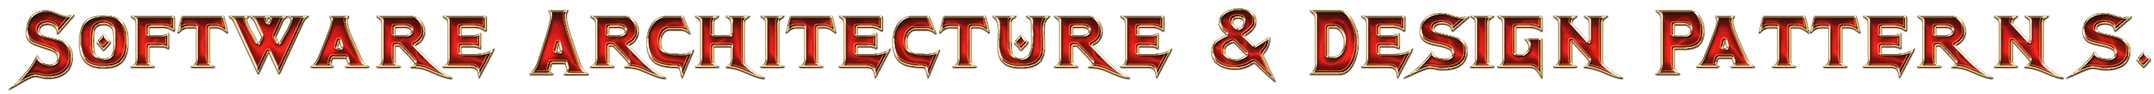
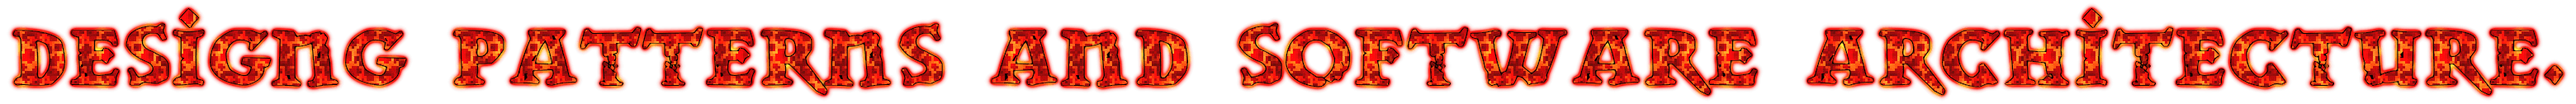
proceeded

diff --git a/Microservices Architecture - The Complete Guide Caption/Section 02/README.md b/Microservices Architecture - The Complete Guide Caption/Section 02/README.md
@@ -1,4 +1,81 @@
-# Section 1:
+# Section 02: History of the microservices?
 
 # What I Learned.
 
+# Introduction.
+
+<div align="center">
+    <img alt="Microservices Architecture - The Complete Guide Course" src="History_Of_Microservices_Intoduction.PNG" width="700"/>
+</div>
+
+1. History of Microservices! We will be going, why before this did not work!
+
+<div align="center">
+    <img alt="Microservices Architecture - The Complete Guide Course" src="Microservices_Before_Two_Paradigm.PNG" width="700"/>
+</div>
+
+1. Microservices are result of:
+    - Monolith.
+    - SOA.
+
+# Monolith.
+
+<div align="center">
+    <img alt="Microservices Architecture - The Complete Guide Course" src="Monolith_Architecture.PNG" width="700"/>
+</div>
+
+1. Monolith is the father of all architecture. 
+2. Monoliths are not sharing, anything with other apps. Meaning, if one want build ecosystem, that's not going to work with **monoliths**!
+
+<div align="center">
+    <img alt="Microservices Architecture - The Complete Guide Course" src="Monolith_Architecture_Example.PNG" width="700"/>
+</div>
+
+1. Process has **all** the components!
+2. Database in other precess usually!
+3. Front end in other precess usually!
+
+- We still say this is **monolith**, since the **core** of the app is running inside one process!
+
+<div align="center">
+    <img alt="Microservices Architecture - The Complete Guide Course" src="Monolith_Architecture_Example_Second.PNG" width="700"/>
+</div>
+
+1. If we have **two** monolith **apps**.
+2. Data sharing between **two monolith apps**!
+    - These are often silos and does not share done!
+        - It can be done, but it's not easy!
+
+<div align="center">
+    <img alt="Microservices Architecture - The Complete Guide Course" src="Monolith_Architecture_Example_Second.PNG" width="700"/>
+</div>
+
+1. It's much simpler to design!
+2. Performance, if designed correctly! 
+    - **ESB** routes the communication to right **service**!
+
+<div align="center">
+    <img alt="Microservices Architecture - The Complete Guide Course" src="SOA_Architecture.PNG" width="600"/>
+</div>
+
+1. The **SOA** is sharing services to outside!
+2. One of feature, why **SOA** was failing was usage of **SOAP**!
+
+<div align="center">
+    <img alt="Microservices Architecture - The Complete Guide Course" src="SOA_Architecture_Example.PNG" width="600"/>
+</div>
+
+1. Apps exposes **SOAP** endpoints to provide the **services** to outside!
+2. **Client** talks directly to the **ESB** (**E**nterprise **S**ervice **B**uss).
+
+<div align="center">
+    <img alt="Microservices Architecture - The Complete Guide Course" src="SOA_Pros.PNG" width="600"/>
+</div>
+
+1. Allowed **data sharing** between system, first time easy!
+    -  Made here the why
+2. 
+
+- Todo this one
+
+# Service Oriented Architecture.

diff --git a/Microservices Architecture - The Complete Guide Caption/Section 01/README.md b/Microservices Architecture - The Complete Guide Caption/Section 01/README.md
@@ -1,4 +1,72 @@
-# Section 1:
+# Section 01: Welcome.
+
+Welcome.
 
 # What I Learned.
 
+# Course Introduction.
+
+<div align="center">
+    <img alt="Microservices Architecture - The Complete Guide Course" src="Introduction_To_The_Microservices.PNG" width="700"/>
+</div>
+
+1. Best course made by **Memi Lavi**!
+
+<div align="center">
+    <img alt="Microservices Architecture - The Complete Guide Course" src="Why_Microservices.PNG" width="700"/>
+</div>
+
+1. This is the most popular **Architecture Paradigm**!
+2. These patterns are not tied to any specific technology!
+3. It solves very **common problems** in dev teams!
+4. Lot of fuzz! 
+
+<div align="center">
+    <img alt="Microservices Architecture - The Complete Guide Course" src="Neflix_Was_One_Of_First.PNG" width="700"/>
+</div>
+
+1. **Netflix** was one of the first companies, which who publically announce the to adopt the **microservice**!
+
+<div align="center">
+    <img alt="Microservices Architecture - The Complete Guide Course" src="But_Its_Not_A_Silverbullet.PNG" width="700"/>
+</div>
+
+1. Microservice architecture **is not** the **silver bullet**! Read following quote.
+
+<div align="center">
+    <img alt="Microservices Architecture - The Complete Guide Course" src="Microservices_Architecture_Pre_Requisites.PNG" width="700"/>
+</div>
+
+1. If moving to the **Microservices Architecture** is wise and how!
+
+<div align="center">
+    <img alt="Microservices Architecture - The Complete Guide Course" src="Microservices_Architecture_If_Not_Controlled.PNG" width="700"/>
+</div>
+
+1. One should be providing real value to the customer!
+
+<div align="center">
+    <img alt="Microservices Architecture - The Complete Guide Course" src="By_End_Of_The_Course.PNG" width="700"/>
+</div>
+
+- This guy is super smart! 
+
+# Join The Software Architects Community.
+
+# Who Is This Course For?
+
+<div align="center">
+    <img alt="Microservices Architecture - The Complete Guide Course" src="This_Course_Is_For.PNG" width="700"/>
+</div>
+
+1. Its preferred to have some **backend** experience!
+
+# An Update for Udemy Students.
+
+- Remember give a review for good course!
+
+# What We Will Talk About in This Course.
+
+<div align="center">
+    <img alt="Microservices Architecture - The Complete Guide Course" src="Agenda.PNG" width="700"/>
+</div>

diff --git a/README.md b/README.md
@@ -1,11 +1,12 @@
 
 <p align="center">
     <img id="studying" src="Software Architecture & Design Patterns caption.png" style="width:900px;height:140px;">
-    <text> Software Architecture (SOLID) & Design principles, Patterns and Clean Code. Also, the architecture related topics in IT!
+    <text> <b>Software Architecture</b> & <b>Design principles</b>. Other things, which are related to the <b>architecture</b>!
 </p>
 
+
 <p align="center">
-   <img src="https://i.giphy.com/media/MGdfeiKtEiEPS/giphy.webp" alt="Java Monolith Optimization Repostiory Graphic"  style="width:490px;height:280px;"/>
+   <img src="Software_Architecture_And_ Design_Patterns_Repository_Graphics.gif" alt="Java Monolith Optimization Repostiory Graphic" width="500" height="350"/>
 </p>
 
 - For these courses one should configure **GIT** for handle projects.
@@ -280,8 +281,11 @@ Linkedin puts this shit front, when clicking from private mode x(. Need to put t
 
 #### Additional stuff.
 
-- ADD STUFF HERE.
-
+- Go thought the `MDC`!
+    - [Link 01](https://medium.com/@pradeepisuru31/understanding-mdc-in-spring-boot-concepts-pitfalls-and-best-practices-f61594ed1efd).
+    - [Link 02](https://www.youtube.com/watch?v=Ip7BIptWMg4).
+    - [Link 03](https://www.youtube.com/watch?v=DsFsd--vhas).
+    
 <p align="center">
     <img
      src="Fundamentals_Of_Backend_Engineering_Caption.png"

diff --git a/Microservices Architecture - The Complete Guide Caption/Section 04/README.md b/Microservices Architecture - The Complete Guide Caption/Section 04/README.md
@@ -1,4 +1,31 @@
-# Section 1:
+# Section 04: Microservices and the Organization.
 
 # What I Learned.
 
+# Introduction.
+
+<div align="center">
+    <img alt="Microservices Architecture - The Complete Guide Course" src="Intro_To_Microservice_Architecture.PNG" width="600"/>
+</div>
+
+1. Real thing, microservice architecture!
+
+# Componentization.
+
+# Organized Around Business Capabilities.
+
+# Products not Projects.
+
+# Smart Endpoints and Dumb Pipes.
+
+# Decentralized Governance.
+
+# Decentralized Data Management.
+
+# Infrastructure Automation.
+
+# Design for Failure.
+
+# Evolutionary Design.
+
+# Summary.

diff --git a/Microservices Architecture - The Complete Guide Caption/Section 03/README.md b/Microservices Architecture - The Complete Guide Caption/Section 03/README.md
@@ -2,3 +2,16 @@
 
 # What I Learned.
 
+# Introduction.
+
+# Single Technology Platform.
+
+# Inflexible Deployment.
+
+# Inefficient Compute Resources.
+
+# Large and Complex.
+
+# Complicated and Expensive ESB.
+
+# Lack of Tooling.
